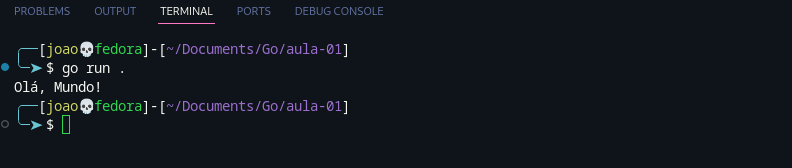
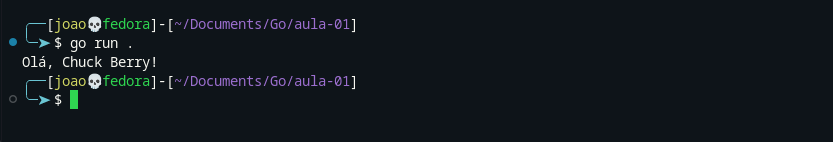
Correção ortografica e adicionados os exercícios da primeira aula

Changed region(s): [[0.0, 0.0282, 0.4848, 0.8169], [0.0, 0.0282, 0.0909, 0.1127]]

diff --git a/_posts/2024-03-29-go-johnny-go.md b/_posts/2024-03-29-go-johnny-go.md
@@ -14,7 +14,7 @@ image:
 
 ## Introdução
 
-Este post tem como objetivo registrar minha jornada de aprendizado em GoLang, participando de um grupo de estudos dirigido e liderado por [Leonardo Toledo](https://www.linkedin.com/in/leo-toledo/). Este grupo não só me oferece uma estrutura de estudo organizada, mas também um ambiente colaborativo para aprofundar meu conhecimento na linguagem. Todo o material, incluindo aulas e exercícios, está disponível no repositório do [Github](https://github.com/h41stur/gogogo).
+Este post tem como objetivo registrar minha jornada de aprendizado em GoLang (ou simplismente Go) através de um grupo de estudos que estou participandl na qual é liderado por [Leonardo Toledo](https://www.linkedin.com/in/leo-toledo/). Este grupo não só me oferece uma estrutura de estudo organizada, mas também um ambiente colaborativo para aprofundar meu conhecimento na linguagem. Todo o material, incluindo aulas e exercícios, está disponível no repositório do [Github](https://github.com/h41stur/gogogo).
 
 Através deste registro, pretendo não apenas solidificar o conhecimento adquirido, mas também compartilhar insights e progressos com quem possa estar na mesma jornada ou considerando embarcar nela. Ao documentar cada aula e desenvolver exercícios propostos, busco uma compreensão mais profunda da linguagem, facilitando assim a absorção e aplicação do conhecimento adquirido.
 
@@ -22,7 +22,9 @@ Através deste registro, pretendo não apenas solidificar o conhecimento adquiri
 
 ### Como iniciar um projeto em Go
 
-Tudo começa com a fundação. No mundo Go, isso significa executar um comando que, embora simples, é poderoso: `go mod init`. Este é o ponto de partida, o grito de guerra para qualquer projeto. Ao digitá-lo seguido pelo nome do nosso módulo, estamos não apenas criando um novo espaço para nosso código, mas também estamos nos preparando para uma gestão de dependências eficaz e moderna. O arquivo **go.mod** é criado, e com ele, a promessa de um projeto organizado e pronto para crescer.
+Tudo começa com a fundação. No mundo Go, isso significa executar um comando que, embora simples, é poderoso: `go mod init`. Este é o ponto de partida, o grito de guerra para qualquer projeto. Ao digitá-lo seguido pelo nome do nosso módulo, estamos não apenas criando um novo espaço para nosso código, mas também estamos nos preparando para uma gestão de dependências eficaz e moderna. O arquivo `go.mod` é criado, e com ele, a promessa de um projeto organizado e pronto para crescer.
+
+- Os comandos a seguir demonstram a criação dos diretórios do nosso primeiro programa, bem com a criação do arquivo responsável pelo código fonte e a inicialização do projeto.
 
 ```shell
 cd ~/Documents/
@@ -42,6 +44,8 @@ go mod init program.go
 
 Com o terreno preparado, é hora de construir. A estrutura básica de um programa Go é um convite à clareza e à eficiência. Cada arquivo começa declarando seu pacote, e para um programa executável, `package main` é a porta de entrada. Dentro deste pacote, a função `main()` se destaca como o coração do nosso projeto, o ponto inicial de toda a execução.
 
+- Edite o arquivo `program.go` (recomendo o [Visual Studio Code](https://code.visualstudio.com/)) e adicione o código a seguir.
+
 ```go
 // Adicione esse código ao arquivo program.go
 package main
@@ -53,9 +57,9 @@ func main() {
 }
 ```
 
-Este snippet é o "Olá, Mundo!" no Go. É aqui que percebemos a sua simplicidade e poder. A função `fmt.Println` nos permite imprimir mensagens na tela, uma demonstração da utilização de pacotes para adicionar funcionalidades ao nosso código.
+Este snippet é o `Olá, Mundo!` no Go. É aqui que percebemos a sua simplicidade e poder. A função `fmt.Println` nos permite imprimir mensagens na tela, uma demonstração da utilização de pacotes para adicionar funcionalidades ao nosso código.
 
-Para executar o nosso primeiro programa, execute o comando `go run .` no terminal
+- Para executar o nosso primeiro programa, execute o comando `go run .` no terminal
 
 ```shell
 cd ~/Documents/Go/aula-01
@@ -69,7 +73,7 @@ _go run ._
 
 Os pacotes em Go são ferramentas essenciais, bibliotecas que nos permitem estender a funcionalidade de nossos programas. Desde operações de entrada/saída básicas, manipulação de strings até a construção de aplicações web complexas, os pacotes têm um papel fundamental. Importá-los é simples, mas carrega consigo o peso da responsabilidade: cada pacote adicionado é uma nova dependência, um novo elo em nosso projeto.
 
-Importar um pacote é tão fácil quanto adicionar uma linha import no topo do arquivo. A linguagem Go incentiva uma gestão cuidadosa dessas importações, garantindo que cada uma seja justificada e utilizada. Através do comando go get, podemos adicionar novas dependências ao nosso projeto, que são prontamente refletidas em nosso arquivo go.mod, mantendo tudo organizado e acessível.
+Importar um pacote é tão fácil quanto adicionar uma linha import no topo do arquivo. A linguagem Go incentiva uma gestão cuidadosa dessas importações, garantindo que cada uma seja justificada e utilizada. Através do comando `go get`, podemos adicionar novas dependências ao nosso projeto, que são prontamente refletidas em nosso arquivo go.mod, mantendo tudo organizado e acessível.
 
 #### Criando pacotes
 
@@ -77,7 +81,9 @@ Em Go, criar seu próprio pacote é um passo excitante para modularizar seu cód
 
 Exemplo:
 
-Imagine que queremos criar um pacote chamado saudacoes para agrupar funções relacionadas a cumprimentos. Primeiro, criamos o diretório saudacoes no nosso projeto, e dentro dele, um arquivo chamado saudacoes.go:
+Imagine que queremos criar um pacote chamado saudacoes para agrupar funções relacionadas a cumprimentos. Primeiro, criamos o diretório saudacoes no nosso projeto, e dentro dele, um arquivo chamado `saudacoes.go`:
+
+- Comandos para a criação do diretório do pacote e o primeiro arquivo desse pacote.
 
 ```shell
 cd ~/Documents/Go/aula-01
@@ -87,6 +93,8 @@ cd saudacoes
 
 touch saudacoes.go
 ```
+
+- Edite o arquivo `saudacoes/saudacoes.go` e adicione o código a seguir.
 
 ```go
 // saudacoes/saudacoes.go
@@ -106,11 +114,11 @@ Para utilizar este pacote em nosso programa principal, importamos o caminho comp
 package main
 
 import (
-    "meuprojeto/saudacoes"
+    "program.go/saudacoes"
 )
 
 func main() {
-    saudacoes.Saudar("Mundo")
+    saudacoes.Saudar("Chuck Berry")
 }
 ```
 
@@ -119,11 +127,13 @@ _package saudacoes_
 
 #### Utilizando pacotes externos
 
-Go facilita a incorporação de pacotes externos, ampliando as possibilidades do que podemos construir. Para adicionar um pacote externo, usamos o comando go get seguido pelo caminho do pacote.
+Go facilita a incorporação de pacotes externos, ampliando as possibilidades do que podemos construir. Para adicionar um pacote externo, usamos o comando `go get` seguido pelo caminho do pacote.
 
 Exemplo:
 
-Vamos usar o popular pacote gorilla/mux, um pacote para roteamento de URL em aplicações web:
+Vamos usar o popular pacote [`gorilla/mux`](https://pkg.go.dev/github.com/gorilla/mux@v1.8.1), um pacote para roteamento de URL em aplicações web:
+
+- Execute o comando no terminal dentro da pasta do projeto:
 
 ```shell
 go get -u github.com/gorilla/mux
@@ -160,13 +170,25 @@ _Mensagem exibida no nacegador_
 
 Com o tempo, nosso projeto pode acumular dependências que não são mais usadas. Go torna fácil manter seu projeto limpo com o comando go mod tidy. Este comando verifica seu código para encontrar todas as dependências que são realmente utilizadas e remove qualquer coisa que não seja necessária do arquivo go.mod.
 
-Comando:
+- Execute o comando no terminal dentro da pasta do projeto:
 
 ```shell
 go mod tidy
 ```
 
 Executar este comando regularmente ajuda a manter o projeto limpo e eficiente, garantindo que apenas as dependências necessárias sejam mantidas.x'
+
+## Exercícios
+
+Os exercícios propostos a seguir são baseados nos conceitos abordados durante nossa última aula, porém introduzem um nível adicional de desafio. O objetivo é aguçar sua curiosidade e fortalecer sua capacidade de solucionar problemas complexos, habilidades essenciais no cotidiano de um desenvolvedor.
+
+As respostas não serão fornecidadas 😅😅😅, mas podemos debater no nosso grupo de estudos.
+
+1. Crie um novo projeto em Go chamado `hello_world` e execute um programa que imprima `Hello, World!` no terminal.
+
+2. Modifique o programa `hello_world` de tal forma que ao executá-lo ele solicite que um nome seja digitado e então ele exiba a mensagem "Hello, <nome_digitado>".
+
+3. Utilize o pacote `strings` para converter o nome digitado para maiúsculo antes de cumprimentá-lo.
 
 ## Referências
 
